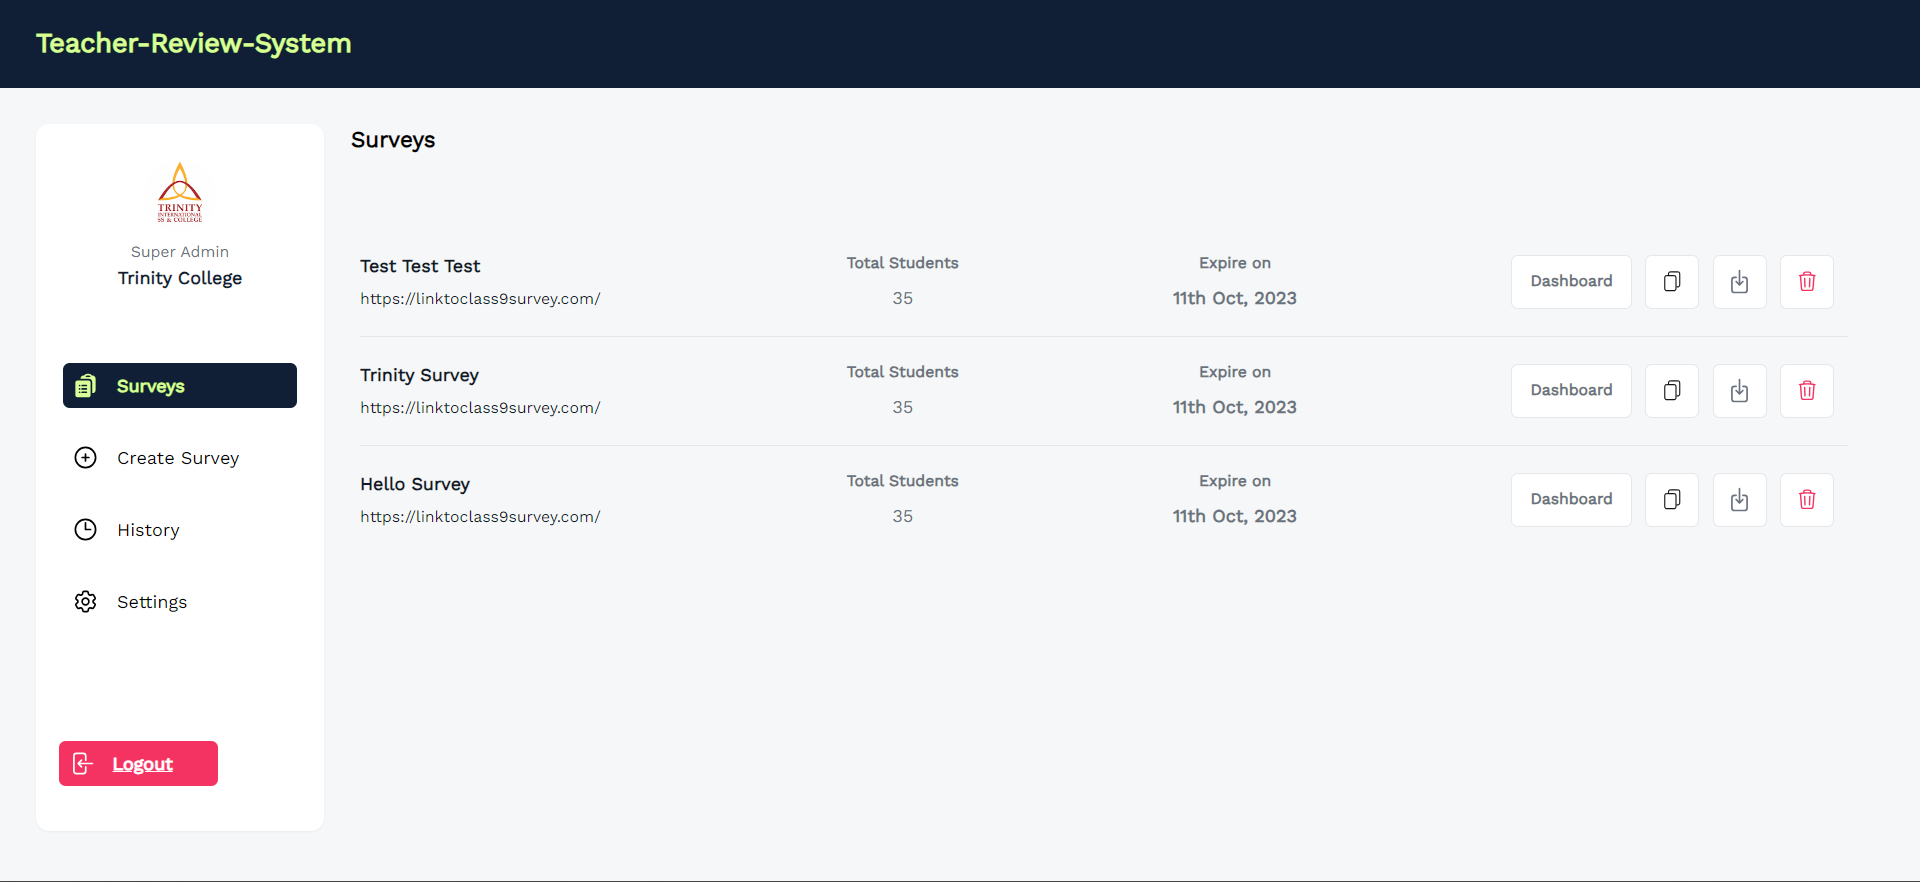
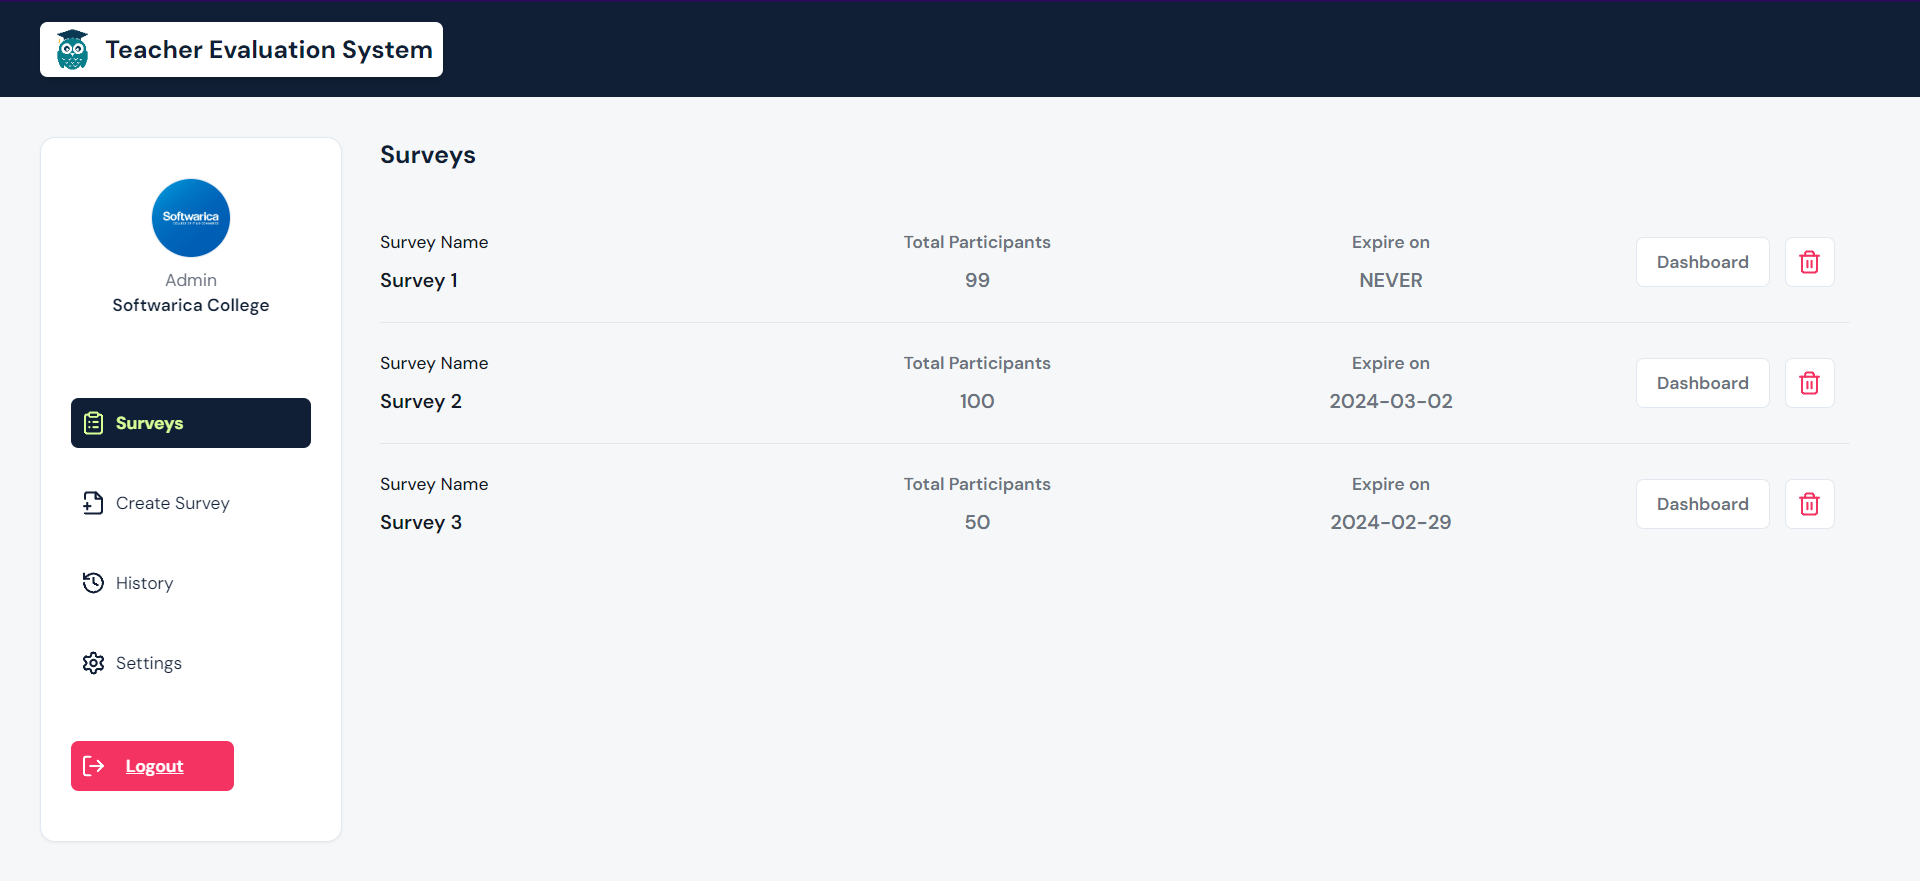
Nischay (#10)
fixes

diff --git a/client/src/components/Footer.jsx b/client/src/components/Footer.jsx
@@ -1,44 +1,56 @@
-import { socialMedias } from "@/constants"
+import { socialMedias } from "@/constants";
 
 const Footer = () => {
-    return (
-        <div className="flex items-center w-full py-6 mt-6 text-white sm:mt-0 sm:px-12 bg-accent_primary font-primary justify-evenly">
-            <div className="flex flex-col">
-                <p className="text-xl">
-                    SCOL
-                </p>
+  return (
+    <div className="flex items-center w-full py-6 mt-6 text-white sm:mt-0 sm:px-12 bg-accent_primary font-primary justify-evenly">
+      <div className="flex flex-col">
+        <p className="text-xl">Teacher Evaluation System</p>
 
-                <p className="text-sm">by <a href="https://innovisionx-tech.vercel.app/" target="_blank" className="font-semibold cursor-pointer hover:underline text-accent_secondary" >InnoVisionX</a></p>
-            </div>
+        <p className="text-sm">
+          by{" "}
+          <a
+            // href="https://innovisionx-tech.vercel.app/"
+            // target="_blank"
+            className="font-semibold cursor-pointer hover:underline text-accent_secondary"
+          >
+            InnoVisionX
+          </a>
+        </p>
+      </div>
 
-            <div className="flex items-center font-medium">
-                <span className="px-1 text-xl">
-                    &copy;
-                </span>
+      <div className="flex items-center font-medium">
+        <span className="px-1 text-xl">&copy;</span>
 
-                <span>
-                    <a href="https://innovisionx-tech.vercel.app/" target="_blank" className="font-semibold underline cursor-pointer hover:no-underline" >InnoVisionX</a><span className="hidden sm:inline"> - All rights reserved.</span>
-                </span>
-            </div>
+        <span>
+          <a
+            // href="https://innovisionx-tech.vercel.app/"
+            // target="_blank"
+            className="font-semibold underline cursor-pointer hover:no-underline"
+          >
+            InnoVisionX
+          </a>
+          <span className="hidden sm:inline"> - All rights reserved.</span>
+        </span>
+      </div>
 
-            <div className="flex-col hidden gap-1 sm:flex justify-center-center">
-                <p className="font-semibold text-accent_secondary">Follow Us</p>
+      <div className="flex-col hidden gap-1 sm:flex justify-center-center">
+        <p className="font-semibold text-accent_secondary">Follow Us</p>
 
-                <div className="flex items-center justify-center gap-4">
-                    {socialMedias.map((data) => (
-                        <a key={data.platform} target="_blank" href={data.url}>
-                            <img
-                                width="25"
-                                height="25"
-                                src={data.imageUrl}
-                                alt={data.platform}
-                            />
-                        </a>
-                    ))}
-                </div>
-            </div>
+        <div className="flex items-center justify-center gap-4">
+          {socialMedias.map((data) => (
+            <a key={data.platform}>
+              <img
+                width="25"
+                height="25"
+                src={data.imageUrl}
+                alt={data.platform}
+              />
+            </a>
+          ))}
         </div>
-    )
-}
+      </div>
+    </div>
+  );
+};
 
-export default Footer
+export default Footer;

diff --git a/client/src/pages/Login.jsx b/client/src/pages/Login.jsx
@@ -1,45 +1,47 @@
-import React from "react"
-import { Navigate } from "react-router-dom"
-import { LoginForm, NavBar } from "@/components"
+import React from "react";
+import { Navigate } from "react-router-dom";
+import { LoginForm, NavBar } from "@/components";
 
 const Login = () => {
-    if (localStorage.getItem("accessToken")) {
-        return <Navigate to="/dashboard/surveys" replace />
-    }
+  if (localStorage.getItem("accessToken")) {
+    return <Navigate to="/dashboard/surveys" replace />;
+  }
 
-    return (
-        <React.Fragment>
-            <NavBar />
+  return (
+    <React.Fragment>
+      <NavBar />
 
-            <div className="flex flex-col justify-center flex-1 min-h-full py-32 sm:px-6 lg:px-8">
-                <div className="sm:mx-auto sm:w-full sm:max-w-md">
-                    <img
-                        className="w-auto h-10 mx-auto rounded-md"
-                        src="/logo.png"
-                        alt="Your Company"
-                    />
+      <div className="flex flex-col justify-center flex-1 min-h-full py-32 sm:px-6 lg:px-8">
+        <div className="sm:mx-auto sm:w-full sm:max-w-md">
+          <img
+            className="w-auto h-16 mx-auto rounded-md"
+            src="/scool.png"
+            alt="Your Company"
+          />
 
-                    <h2 className="mt-6 text-2xl font-bold leading-9 tracking-tight text-center text-gray-900">
-                        Sign in to your account
-                    </h2>
-                </div>
+          <h2 className="mt-6 text-2xl font-bold leading-9 tracking-tight text-center text-gray-900">
+            Sign in to your account
+          </h2>
+        </div>
 
-                <div className="mt-10 sm:mx-auto sm:w-full sm:max-w-[480px]">
-                    <div className="px-6 py-12 bg-white shadow sm:rounded-lg sm:px-12">
-                        <LoginForm />
-                    </div>
+        <div className="mt-10 sm:mx-auto sm:w-full sm:max-w-[480px]">
+          <div className="px-6 py-12 bg-white shadow sm:rounded-lg sm:px-12">
+            <LoginForm />
+          </div>
 
-                    <p className="mt-10 text-sm text-center text-gray-500">
-                        Not a member?{' '}
+          <p className="mt-10 text-sm text-center text-gray-500">
+            Not a member?{" "}
+            <a
+              href="/contact"
+              className="font-semibold leading-6 text-accent_primary hover:underline"
+            >
+              Contact Us
+            </a>
+          </p>
+        </div>
+      </div>
+    </React.Fragment>
+  );
+};
 
-                        <a href="https://innovisionx-tech.vercel.app" target="_blank" className="font-semibold leading-6 text-accent_primary hover:underline">
-                            Contact Us
-                        </a>
-                    </p>
-                </div>
-            </div>
-        </React.Fragment>
-    )
-}
-
-export default Login
+export default Login;

diff --git a/client/src/pages/Home.jsx b/client/src/pages/Home.jsx
@@ -145,10 +145,10 @@ const Home = () => {
                 </h1>
 
                 <p className="mt-6 text-lg leading-8 text-gray-300">
-                  Welcome to SCOOL, where we believe in fostering a collaborative
-                  learning environment by bridging the gap between educators and
-                  students, specializing in insightful teacher evaluations using
-                  students' valuable perspectives.
+                  Welcome to Teacher Evaluation System, where we believe in
+                  fostering a collaborative learning environment by bridging the
+                  gap between educators and students, specializing in insightful
+                  teacher evaluations using students' valuable perspectives.
                 </p>
               </div>
             </div>
@@ -230,7 +230,8 @@ const Home = () => {
           </div>
 
           {/* Testimonial section */}
-          <div className="py-20 mt-20 bg-gray-900 sm:py-30 sm:mt-38">Merge
+          <div className="py-20 mt-20 bg-gray-900 sm:py-30 sm:mt-38">
+            Merge
             <div className="px-6 mx-auto max-w-7xl lg:px-8">
               <div className="flex flex-col items-center justify-center mx-auto lg:mx-0">
                 <h2 className="text-3xl font-bold tracking-tight text-white sm:text-4xl">
@@ -246,7 +247,7 @@ const Home = () => {
 
               <ul
                 role="list"
-                className="grid max-w-2xl grid-cols-1 mx-auto mt-20 gap-x-8 gap-y-14 sm:grid-cols-2 lg:mx-0 lg:max-w-none lg:grid-cols-3 xl:grid-cols-4"
+                className="grid max-w-2xl grid-cols-1 mx-auto mt-20 gap-x-8 gap-y-14 sm:grid-cols-2 lg:mx-0 lg:max-w-none lg:grid-cols-3 xl:grid-cols-4 items-center justify-center"
               >
                 {team.map((person) => (
                   <li key={person.name}>
@@ -294,15 +295,9 @@ const Home = () => {
 
                           <span className="flex items-center ml-6 h-7">
                             {open ? (
-                              <Minus
-                                className="w-6 h-6"
-                                aria-hidden="true"
-                              />
+                              <Minus className="w-6 h-6" aria-hidden="true" />
                             ) : (
-                              <Plus
-                                className="w-6 h-6"
-                                aria-hidden="true"
-                              />
+                              <Plus className="w-6 h-6" aria-hidden="true" />
                             )}
                           </span>
                         </Disclosure.Button>

diff --git a/client/src/components/NavBar.jsx b/client/src/components/NavBar.jsx
@@ -1,7 +1,8 @@
-import { AlignJustify } from "lucide-react";
 import { Link } from "react-router-dom";
-import { Sheet, SheetContent, SheetTrigger } from "@/components/ui/sheet";
+import { AlignJustify } from "lucide-react";
+import isJwtValid from "@/utils/isJwtValid";
 import SideNav from "./SideNav";
+import { Sheet, SheetContent, SheetTrigger } from "@/components/ui/sheet";
 
 const NavBar = () => {
   return (
@@ -12,13 +13,25 @@ const NavBar = () => {
       >
         <img src="/scool.png" alt="" className="w-9" />
 
-        <h1 className="text-lg font-bold cursor-pointer lg:text-xl">SCOOL</h1>
+        <h1 className="text-lg font-bold cursor-pointer lg:text-xl">
+          Teacher Evaluation System
+        </h1>
+
       </Link>
 
       <Sheet>
-        <SheetTrigger asChild>
-          <AlignJustify className="block w-6 h-6 text-white cursor-pointer lg:hidden" />
-        </SheetTrigger>
+        {!localStorage.getItem("accessToken") ? null : (
+          <SheetTrigger asChild>
+            <AlignJustify className="block w-6 h-6 text-white cursor-pointer lg:hidden" />
+          </SheetTrigger>
+        )}
+
+        {/* {localStorage.getItem("accessToken") &&
+        !isJwtValid(localStorage.getItem("accessToken")) ? null : (
+          <SheetTrigger asChild>
+            <AlignJustify className="block w-6 h-6 text-white cursor-pointer lg:hidden" />
+          </SheetTrigger>
+        )} */}
 
         <SheetContent className="block font-primary bg-neutral_white lg:hidden">
           <div className="my-2">

diff --git a/client/src/pages/History.jsx b/client/src/pages/History.jsx
@@ -4,6 +4,7 @@ import { useSchoolData } from "@/hooks";
 import getTimeAgo from "@/utils/getTimeAgo";
 import getExpiredDaysAgo from "@/utils/getExpiredDaysAgo";
 import { cn } from "@/lib/utils";
+import { format } from "date-fns";
 
 const FILTER_OPTIONS = {
   ALL: "All",
@@ -21,6 +22,8 @@ const HistoryPage = () => {
     FILTER_OPTIONS.ALL
   );
 
+  const todayDate = format(new Date(), "yyyy-MM-dd");
+
   useEffect(() => {
     setAllSurveys(schoolData?.data?.data.surveys);
   }, [schoolData]);
@@ -31,8 +34,7 @@ const HistoryPage = () => {
     });
 
     const expiredSurveysWithDaysAgo = expiredSurveys?.map((data) => {
-      console.log(data.expiry);
-      if (data.expiry != "NEVER") {
+      if (data.expiry != "NEVER" && data.expiry < todayDate) {
         const daysAgo = getTimeAgo(data.expiry);
         return { ...data, days: daysAgo };
       } else {

diff --git a/client/index.html b/client/index.html
@@ -1,16 +1,14 @@
-<!doctype html>
+<!DOCTYPE html>
 <html lang="en">
+  <head>
+    <meta charset="UTF-8" />
+    <link rel="icon" type="image" href="/logo.png" />
+    <meta name="viewport" content="width=device-width, initial-scale=1.0" />
+    <title>TES | InnoVisionX</title>
+  </head>
 
-<head>
-  <meta charset="UTF-8" />
-  <link rel="icon" type="image" href="/logo.png" />
-  <meta name="viewport" content="width=device-width, initial-scale=1.0" />
-  <title>Scool | InnoVisionX Technologies</title>
-</head>
-
-<body>
-  <div id="root"></div>
-  <script type="module" src="/src/main.jsx"></script>
-</body>
-
+  <body>
+    <div id="root"></div>
+    <script type="module" src="/src/main.jsx"></script>
+  </body>
 </html>

diff --git a/client/src/constants/navigations.js b/client/src/constants/navigations.js
@@ -1,15 +1,16 @@
 const navigations = [
-    { name: "About Us", href: "#about-us" },
-    { name: "FAQs", href: "#faq" },
-    {
-        name: "Community",
-        href: "https://www.facebook.com/groups/846181496988189/",
-        target: "_blank",
-    },
-    {
-        name: "Contact Us",
-        href: "/contact",
-    },
+  { name: "About Us", href: "#about-us" },
+  { name: "FAQs", href: "#faq" },
+  {
+    name: "Community",
+    // href: "https://www.facebook.com/groups/846181496988189/",
+    href: "#",
+    // target: "_blank",
+  },
+  {
+    name: "Contact Us",
+    href: "/contact",
+  },
 ];
 
-export default navigations
+export default navigations;
